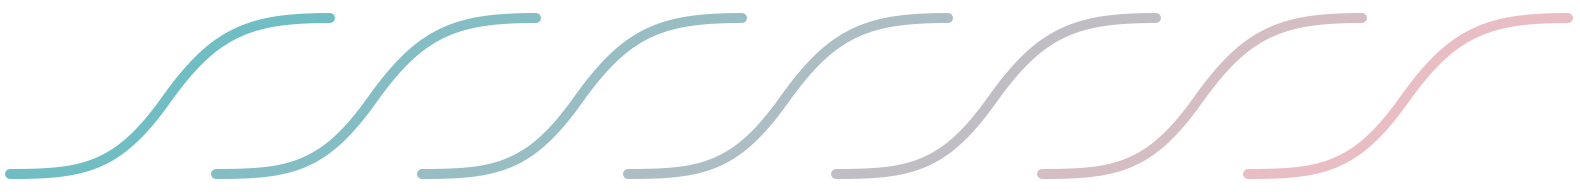
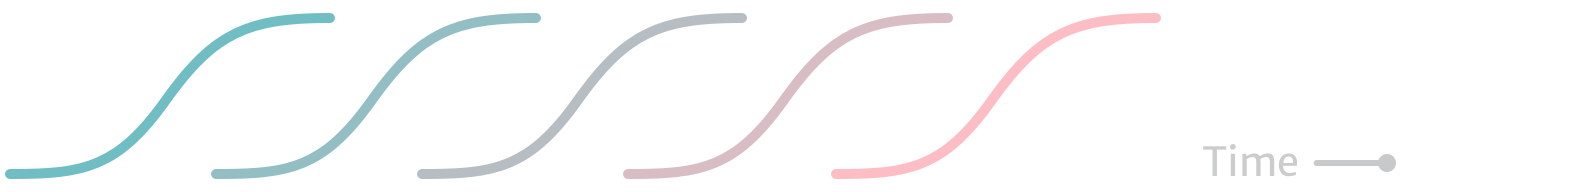
s-curves post

diff --git a/content/notes/2019-11-06-s-curves/index.md b/content/notes/2019-11-06-s-curves/index.md
@@ -1,8 +1,8 @@
 ---
-title: 'S-Curves: bridging the gap in flowers, companies, and software systems'
-slug: 's-curves-bridging-the-gap'
-date: 2019-11-06T19:27:37+10:00
-draft: true
+title: 'Thoughts on s-curves'
+slug: 'thoughts-on-s-curves'
+date: 2019-11-23T19:27:37+10:00
+draft: false
 ---
 
 S-curves describe the growth cycle of systems. They describe the birth, development, maturity and eventual decline that we see around us; in nature, people, trends, companies, etc. They work at many levels of granularity: the growth of a flower can be visualised as an s-curve, and the growth of its petals as many smaller s-curves along that parent curve. This also works the other way around: we can zoom out and see that the curve of the flower is part of the s-curve of the spring season, with  life erupting at its peak, and autumn ushering in the decline of that life as the curve comes to its end.
@@ -19,5 +19,12 @@ When the process of evolution produces a series of flowers that are each slightl
 
 When we use s-curves to reason about the development of companies, products or other systems, the same applies. A company can go through developmental phases, reach maturity, and begin to explore a new developmental phase: a new s-curve. This new curve could be represented by a new product or market. For the employees and customers to make the jump to the new s-curve the company is trying to pursue, they need to be able to bridge the gap between the old and the new curves. Similar to how successful offspring of a flower will look very much like its parent, in order to bridge the gap in companies, there will need to be a certain commonality between the old and the new s-curve. When this commonality does not exist, in value proposition, culture, or purpose, the gap will be too large to bridge. People will fail to identify with the new initiative the company is trying to pursue. The new s-curve will fizzle out, and the old s-curve will decline (unless a new s-curve is started, and successfully this time).
 
-When we consider changing software systems, this can also inform our approach. Rather than replacing a system with something completely new and isolated from the systems's predecessor, it is better to seek a certain level of commonality between the two systems and run them side by side, so that the maturity and decline of the old system lines up with the development and maturity of the new one. This process is also known as strangulation, which I have written about before. Another approach is to not replace a system at all, but to take a cue from nature and slowly evolve away from the present state in a succession iterations, which can be represented as s-curves. Each curve will take the new system farther away from the original state, and towards the desired end state.
+{{< wide-image 3-company-gap >}}
+    Risk surface pursuing a new s-curve.
+{{< /wide-image>}}
 
+When we consider changing software systems, this can also inform our approach. Rather than replacing a system with something completely new and isolated from the systems's predecessor, it is better to seek a certain level of commonality between the two systems and run them side by side, so that the maturity and decline of the old system lines up with the development and maturity of the new one. This process is also known as strangulation, which I have [written about before](https://medium.com/wetransfer/the-new-wetransfer-why-strangulation-works-b019fcc3874b). Another approach is to not replace a system at all, but to take a cue from nature and slowly evolve away from the present state in a succession iterations, which can be represented as s-curves. Each curve will take the new system farther away from the original state, and towards the desired end state.
+
+{{< wide-image 4-system-transition >}}
+    Aligning curves to limit transition risk.
+{{< /wide-image>}}
